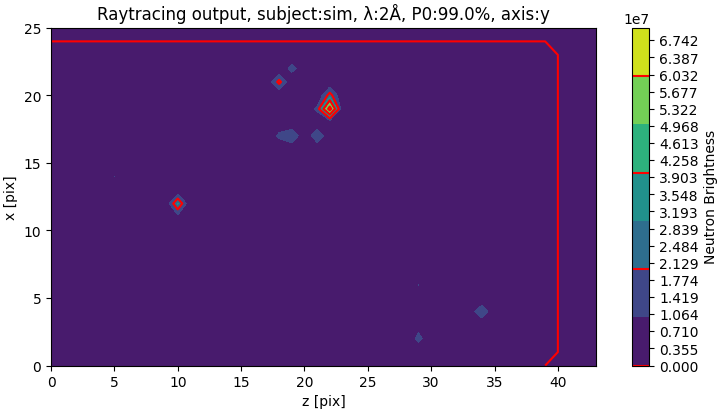
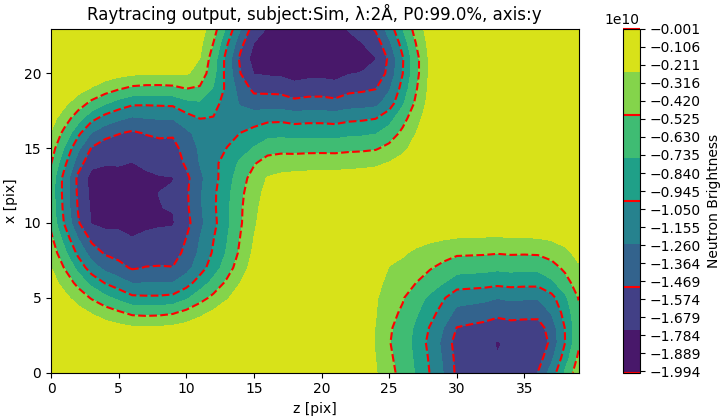
Save before testing a major change

diff --git a/config_fns.py b/config_fns.py
@@ -104,7 +104,8 @@ def read_data(data_path, filename):
     return field, field_loc
 
 def find_polarization(path_field, path, wavelength):
-    """Calculates a neutron's polarization rate after passing through a magnetic field along its path.
+    """Calculates a neutron's polarization rate after passing through a magnetic field along 
+        its path.
     
     Args:
         path_field (np.array): The magnetic field values of each voxel the ray passes through.
@@ -118,7 +119,8 @@ def find_polarization(path_field, path, wavelength):
     GAMMA = -1.83247171 * 10**8 # s^-1 T^-1
     h = 6.626 * 10**-34 # J*s
     m = 1.674 * 10**-27 # kg
-    field_integral = np.sum(path_field, axis=0) # In the same unit as COMSOL's export
+    # field_integral = np.sum(path_field, axis=0) # In the same unit as COMSOL's export
+    # print(field_integral)
 
     # Find the directional vector of the neutron's trajectory
     d_vec = path[-1] - path[0]
@@ -126,8 +128,15 @@ def find_polarization(path_field, path, wavelength):
     # print(d_vec)
 
     phi = 0
-    for count, field_vec in enumerate(field_integral):
-        phi += np.dot(field_vec, d_vec[count])
+    for count, field_vec in enumerate(path_field):
+        # Simulate the propagation of neutron through the field, and actively calculate the precession
+        # phi += np.dot(field_vec, d_vec[count])
+        a, b, c = field_vec
+        x, y, z = d_vec
+        norm_product = ((a**2 + b**2 + c**2) * (x**2 + y**2 + z**2))**0.5
+        ang = np.arccos((a*x + b*y + c*z) / norm_product)
+        cross = norm_product * np.sin(ang)
+        phi += cross
 
     temp = (GAMMA * m) / h * phi
     wavelength = wavelength * 10**-10 # m

diff --git a/main.py b/main.py
@@ -1,12 +1,12 @@
 """Main file for the project."""
 import multiprocessing as mp
 from datetime import datetime
+import os
 import numpy as np
 from matplotlib import pyplot as plt
 import config
 import config_fns
 import ray_tracing_fns
-import os
 
 # # Put the input file path and file names here
 DATA_PATH = "E:/Documents and stuff/School_Stuff/_CSNS/PNI/COMSOL6.0(64bit)/Simulations/"
@@ -21,7 +21,7 @@ DATA_FILE = "bar_magnet.txt"
 SOURCE_PROFILE = "gaussian"
 
 # # Specify in which axis is the neutron beam projected
-AXIS = "x" # Axis to be raytraced along, must be "x", "y", or "z"
+AXIS = "y" # Axis to be raytraced along, must be "x", "y", or "z"
 
 # # Physisc settings
 INITIAL_POLARIZATION = 0.99 # Initial polarization rate of the neutron in decimals
@@ -33,7 +33,7 @@ PLOT_FIELD_FIRST = False # If true, generates a plot of the field before raytrac
 SHOW_PROGRESS = True # If true, prints the progress
 
 
-# Execution code
+# # Execution code
 if __name__ == "__main__":
     # Identify input data type
     if DATA_FILE.rsplit('.', maxsplit=1)[-1] == 'txt':
@@ -86,7 +86,6 @@ if __name__ == "__main__":
 
     ROW_TIME = 0
     tot_row = np.shape(output)[0]
-    print(np.shape(output))
     with mp.Pool(processes = os.cpu_count()) as pool:
         for i, row in enumerate(output):
             row_start = datetime.now()

diff --git a/ray_tracing_fns.py b/ray_tracing_fns.py
@@ -6,7 +6,7 @@ import config
 import config_fns
 import main
 
-def make_ray(b_field, start_pos, dir_vec): # BUG: somethow the rays are not being made
+def make_ray(b_field, start_pos, dir_vec):
     """Simulates a ray of neutron passing through the field space.
     Returns the magnetic field values of each voxel the ray passes through.
     Precondition: 
@@ -140,6 +140,7 @@ def ray_tracing_sim(field, pixel_pos, source):
         # Get each ray's polarization
         p_ray = config_fns.find_polarization(path_field, field_path, main.WAVELENGTH)
         # NOTE: for now, the polarizatin is a scalar. In the future, it could be a vector.
+        # p_ray = np.float64(p_ray%(np.pi * 2))
 
         i_ray = source_val * 0.5 * (1 - p_ray)
 
